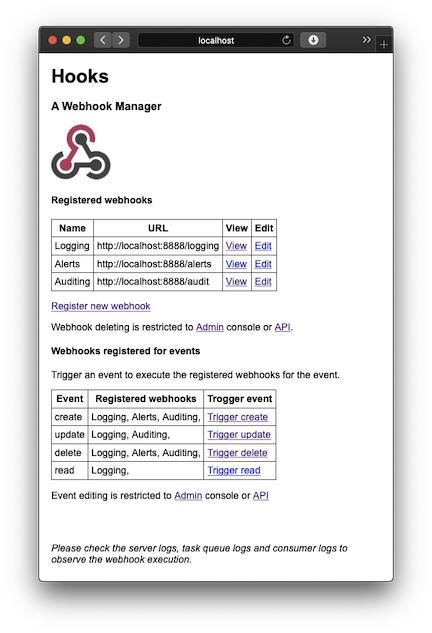
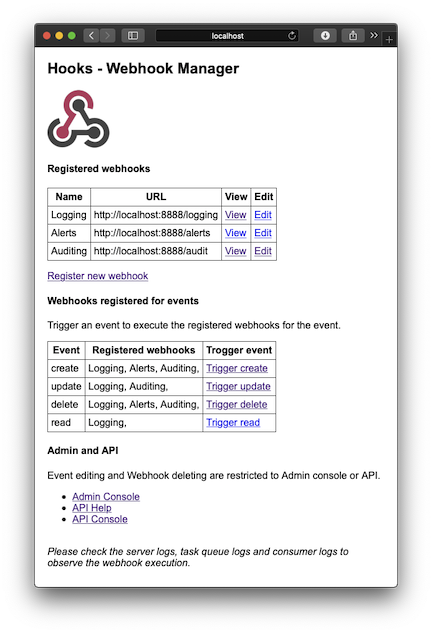
Adding API help using drf-yasg

Changed region(s): [[0.0602, 0.03, 0.9329, 0.9605]]

diff --git a/server/hooks/templates/hooks/index.html b/server/hooks/templates/hooks/index.html
@@ -8,8 +8,7 @@
 </head>
 <body>
 
-<h1>Hooks</h1>
-<h3>A Webhook Manager</h3>
+<h2>Hooks - Webhook Manager</h2>
 
 <img src="{% static "hooks/webhooks-logo-transparent.png" %}" alt="Webhooks Logo" width="100px">
 
@@ -40,9 +39,6 @@
     <a href="{% url 'webhook_new'  %}">Register new webhook</a>
 </p>
 
-<p>
-    Webhook deleting is restricted to <a href="/admin">Admin</a> console or <a href="/api">API</a>.
-</p>
 
 <h4>Webhooks registered for events</h4>
 
@@ -75,19 +71,22 @@
 </table>
 {% else %}
 <p>No events available, please add events using <a href="/admin">Admin</a> interface</p> or using the
-<a href="/api">API</a>
+<a href="/api">API.</a>
 {% endif %}
 
-<p>
-    Event editing is restricted to <a href="/admin">Admin</a> console or  <a href="/api">API</a>
-</p>
+<h4>Admin and API</h4>
+
+Event editing and Webhook deleting are restricted to Admin console or API.
+
+<ul>
+    <li><a href="/admin">Admin Console</a></li>
+    <li><a href="/api-help">API Help</a></li>
+    <li><a href="/api">API Console</a></li>
+</ul>
 
 <br>
-<br>
 
-<p>
-    <i>Please check the server logs, task queue logs and consumer logs to observe the webhook execution.<i>
-</p>
+<i>Please check the server logs, task queue logs and consumer logs to observe the webhook execution.</i>
 
 </body>
 </html>

diff --git a/server/hooks/urls.py b/server/hooks/urls.py
@@ -1,4 +1,8 @@
+from django.conf.urls import url
 from django.urls import path, include
+from drf_yasg import openapi
+from drf_yasg.views import get_schema_view
+from rest_framework import permissions
 from rest_framework import routers
 
 from . import api
@@ -7,6 +11,19 @@ from . import views
 router = routers.DefaultRouter()
 router.register('events', api.EventViewSet)
 router.register('webhooks', api.WebhookViewSet)
+
+schema_view = get_schema_view(
+    openapi.Info(
+        title="Hooks API",
+        default_version='v1',
+        description="Test description",
+        terms_of_service="https://www.google.com/policies/terms/",
+        contact=openapi.Contact(email="contact@snippets.local"),
+        license=openapi.License(name="BSD License"),
+    ),
+    public=True,
+    permission_classes=(permissions.AllowAny,),
+)
 
 urlpatterns = [
     # Web interface endpoints
@@ -18,4 +35,6 @@ urlpatterns = [
     # REST API endpoints
     path('api/', include(router.urls)),
     path('api-auth/', include('rest_framework.urls', namespace='rest_framework')),
+    # REST API documentation
+    url(r'^api-help/$', schema_view.with_ui('swagger', cache_timeout=0), name='schema-swagger-ui'),
 ]

diff --git a/server/server/settings.py b/server/server/settings.py
@@ -41,6 +41,7 @@ INSTALLED_APPS = [
     'huey.contrib.djhuey',
     'rest_framework',
     'django_nose',
+    'drf_yasg',
 ]
 
 MIDDLEWARE = [

diff --git a/docs/api.md b/docs/api.md
@@ -3,9 +3,12 @@
 Both webhooks (`api/webhooks`) and events (`api/events`) are available through RESTful API supporting CRUD operations
 following standard conventions.
 
-Please use the default browsable API console enabled at `/api` for more details.
+Use the API console and help for the complete API documentation.
 
-![Browseable API Console](screenshots/api-console.png)
+| `http://localhost:8000/api-help/` | `http://localhost:8000/api/` |
+| --- | --- |
+| ![API Help](screenshots/api-help.png) |  ![API Console](screenshots/api-console.png) |
+
 
 > NOTE: API endpoint URLs uses the default Django
 >[trailing slash is required convention](https://docs.djangoproject.com/en/3.0/ref/settings/#append-slash).

diff --git a/README.md b/README.md
@@ -84,9 +84,11 @@ Dockerized as a simple [single image](docker.md)
 
 [REST API documentation](docs/api.md)
 
-Available at `http://localhost:8000/api/`
 
-![Browsable API](docs/screenshots/api-console.png)
+| `http://localhost:8000/api-help/` | `http://localhost:8000/api/` |
+| --- | --- |
+| ![API Help](docs/screenshots/api-help.png) |  ![API Console](docs/screenshots/api-console.png) |
+
 
 ## Tests and code coverage
 
